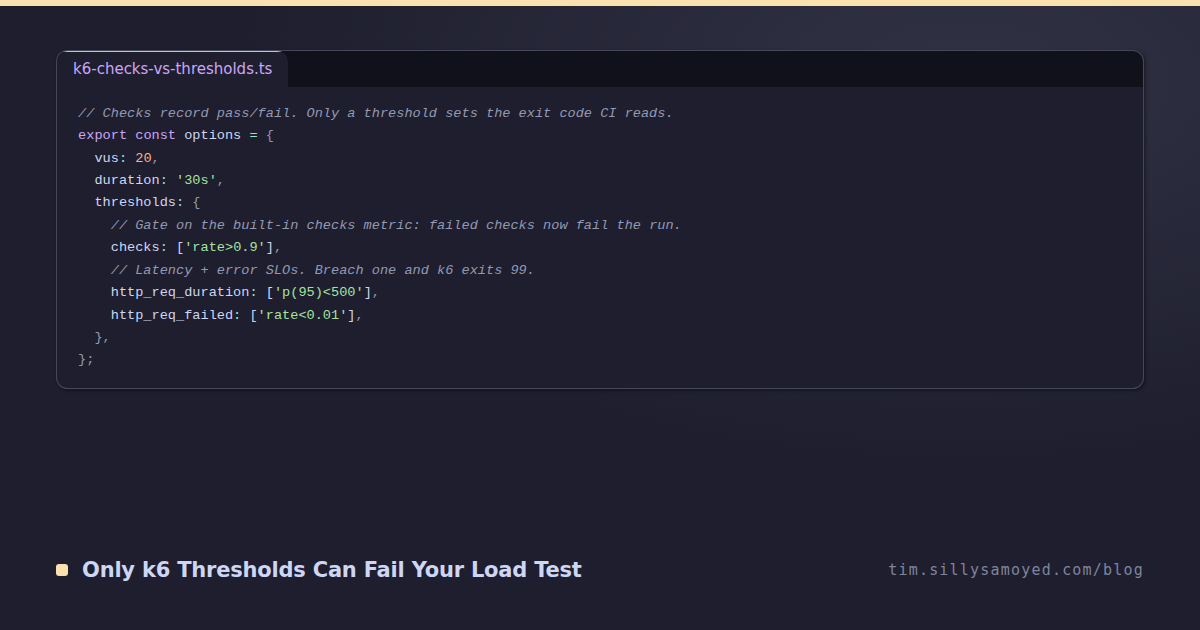
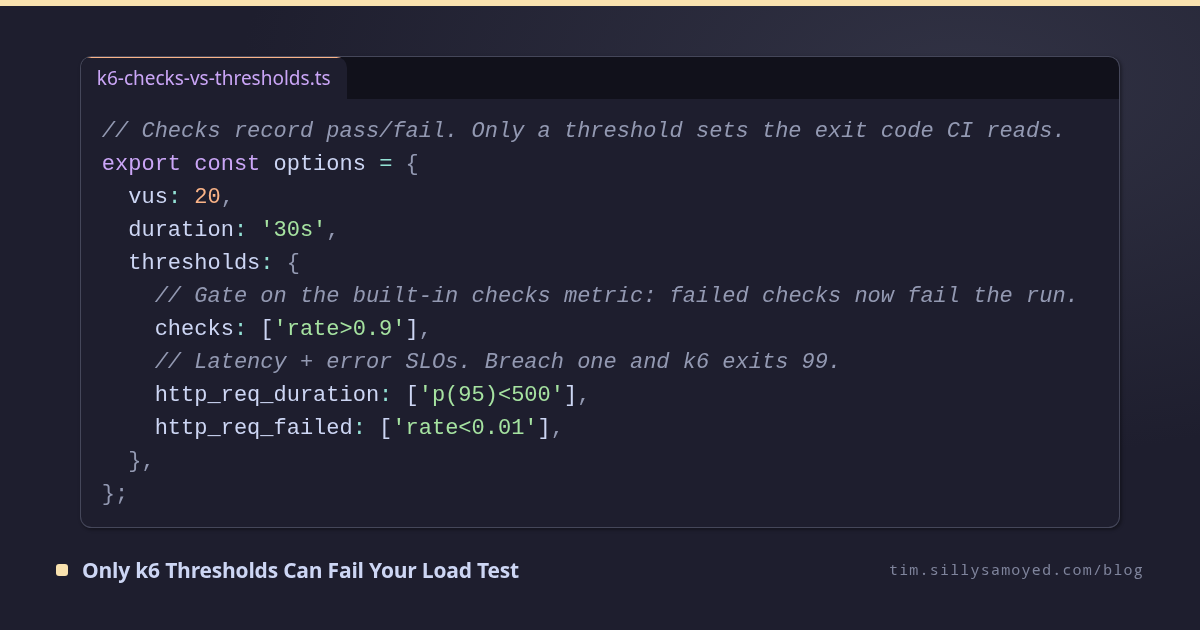
fix(ci): render OG image at PR time, slim publish to dispatch-only (#200)
* fix(ci): render OG image at PR time, slim publish to dispatch-only

Post-merge OG render in publish-linkedin.yml pushed public/og/SLUG.png
straight to main, racing the version-bump commit and failing the whole
publish (no image, no LinkedIn dispatch). Move the render to a PR-time
workflow (render-og.yml) that commits the PNG to the claude/ branch with
the built-in Actions token, so it rides the rebase-merge into main. Slim
publish-linkedin.yml to poll + dispatch only — it writes nothing to main,
so the race class is gone. render-og triggers on posts and og-snippets,
so an OG-snippet edit on an existing post re-renders too.

Also fix the OG card layout: the code frame stretched to 630px (flex
1 1 auto) leaving a big gap to the footer, and sat full-width with short
lines. Hug the code width, centre it vertically, and bump the Expressive
Code font token so the card fills evenly.

Closes #199

* chore(ci): bump actions/checkout and setup-node to v7

Move every actions/checkout and actions/setup-node reference from @user to
@user across the remaining workflows (publish-linkedin.yml and render-og.yml
already ship on v7). pnpm/action-setup stays at v4.

---------

diff --git a/CLAUDE.md b/CLAUDE.md
@@ -235,7 +235,8 @@ screenshotted by `scripts/og/render.mjs`.
 
 Missing snippet → route falls back to the post's first body fence via
 `pickHeroFence()` (`src/lib/ogSnippet.ts`), so hand-written posts still get an image.
-`publish-linkedin.yml` runs the render on merge and commits `public/og/SLUG.png`;
+`render-og.yml` runs the render at PR time and commits `public/og/SLUG.png` to the
+PR branch, so the PNG is reviewable in the diff and merges atomically with the post;
 `version-bump.yml` ignores `public/og/**` so those commits never bump the version.
 
 ## Component Architecture
@@ -383,12 +384,13 @@ one row per post (`Date | Title | Topic angle | Archetype | Hashtags`); the skil
 reads it to avoid repeating a recent angle and to exclude the last three archetypes
 from this run's rotation. It is hand-tended by the skill — append, don't rewrite.
 
-On merge, `publish-linkedin.yml` reads `linkedinPost`, renders `public/og/SLUG.png`
-(building the site, running `pnpm og:render --slug SLUG`, and committing the PNG to
-`main`), then dispatches to `linkedin-post-generator`, which posts the copy to
-LinkedIn and comments the blog link on the post (LinkedIn demotes posts with external
-links in the body, so the copy carries no URLs — it ends with "Link in the first
-comment.").
+At PR time, `render-og.yml` builds the site, runs `pnpm og:render`, and commits
+`public/og/SLUG.png` to the PR branch — so the PNG rides the rebase-merge into
+`main` atomically with the post. On merge, `publish-linkedin.yml` reads
+`linkedinPost`, polls the blog URL and image URL until both are live on Cloudflare,
+then dispatches to `linkedin-post-generator`, which posts the copy to LinkedIn and
+comments the blog link on the post (LinkedIn demotes posts with external links in
+the body, so the copy carries no URLs — it ends with "Link in the first comment.").
 
 ## Playwright Screenshots
 
@@ -489,15 +491,16 @@ default.
 
 GitHub Actions workflows live in `.github/workflows/`.
 
-| Workflow                    | Trigger                                                                                                  | What                                                                                                                                                                                                                                                                                                                                                                                                                                                                                                                                                                                                    |
-| --------------------------- | -------------------------------------------------------------------------------------------------------- | ------------------------------------------------------------------------------------------------------------------------------------------------------------------------------------------------------------------------------------------------------------------------------------------------------------------------------------------------------------------------------------------------------------------------------------------------------------------------------------------------------------------------------------------------------------------------------------------------------- |
-| `ci.yml`                    | `pull_request` → `main`                                                                                  | `./scripts/ci/check-claude-md.sh` → `pnpm lint` → `pnpm test:coverage` (V8 coverage gate, thresholds in `vitest.config.ts`) → `pnpm typecheck` → `pnpm build`                                                                                                                                                                                                                                                                                                                                                                                                                                           |
-| `playwright.yml`            | `pull_request` → `main` / manual                                                                         | Waits for the Cloudflare Pages preview deploy via `scripts/ci/wait-for-cf-preview.sh`, then runs Playwright against the preview URL. `workflow_dispatch` takes a `base_url` input instead.                                                                                                                                                                                                                                                                                                                                                                                                              |
-| `refresh-ci-snapshot.yml`   | nightly cron (`0 6 * * *`) / manual                                                                      | Runs `pnpm ci:refresh` to regenerate `src/data/ci-snapshot.json` from the live Actions API (CI strip signals + real per-step `gates` durations for the `/testing` CI-gate cards), then commits it straight to `main` (via `VERSION_BUMP_TOKEN`, like `refresh-test-stats.yml`) if it changed — no PR. `version-bump.yml` paths-ignores the file so the commit never bumps the version. Keeps the footer + `/testing` CI strip and gate timings from going stale.                                                                                                                                        |
-| `refresh-project-stats.yml` | nightly cron (`15 6 * * *`) / manual                                                                     | Runs `pnpm projects:refresh` to regenerate `src/data/project-stats.json` (stars/forks/updatedAt per repo) from the live GitHub repos API, then commits it straight to `main` (via `VERSION_BUMP_TOKEN`, like `refresh-test-stats.yml`) if it changed — no PR. `version-bump.yml` ignores the file so the refresh never bumps the version.                                                                                                                                                                                                                                                               |
-| `refresh-test-stats.yml`    | `push` → `main` (`paths: tests/**`, `**/*.test.ts`, `playwright.config.ts`) / manual                     | Runs `pnpm stats:refresh` to regenerate `src/lib/testStats.ts` (the `/testing` unit/E2E counts) whenever specs change, then commits it back to `main` via `VERSION_BUMP_TOKEN` if it changed. The commit touches only `testStats.ts`, which matches neither this workflow's `paths` filter (no self-trigger) nor version-bump's `paths-ignore` (no bump no-op).                                                                                                                                                                                                                                         |
-| `publish-linkedin.yml`      | `push` → `main` (`paths: src/content/posts/**`) / manual (`workflow_dispatch` with a `slug` input) | Blog-first publish. When a new blog post lands on `main`: builds the site, runs `pnpm og:render --slug SLUG` (Playwright screenshots `/blog/SLUG/og`), commits `public/og/SLUG.png` to `main` via `VERSION_BUMP_TOKEN` (rebase-retries on a concurrent push to `main`; husky hooks skipped on the bot commit/push), polls the blog URL (200) and the image URL (200 **and** `image/*` content-type, so the pre-deploy HTML fallback can't false-pass), then `repository_dispatch`es a `linkedin-publish` event (`client_payload: { linkedin_text, blog_url, slug, image_url }`) to `linkedin-post-generator`. Posts without `linkedinPost` (hand-written) are skipped. The `workflow_dispatch` `slug` input is the manual recovery lever — re-drives render → commit → poll → dispatch for one post when the push run failed (e.g. lost a push race). One-way link, no write-back. Uses `secrets.LPG_DISPATCH_TOKEN` + `secrets.VERSION_BUMP_TOKEN`. |
-| `version-bump.yml`          | `push` → `main` (`paths-ignore: ci-snapshot.json`, `project-stats.json`, `testStats.ts`, `public/og/**`) | Reads the merged commits via Conventional Commits — `feat`→minor, `fix`/`perf`→patch, `feat!`/`BREAKING CHANGE`→major, anything else→no bump — then `npm version <level> --no-git-tag-version` and commits the bump back to `main`. The bump commit deliberately omits `[skip ci]` (Cloudflare Pages honors it, which would stop the footer version from ever deploying); its `chore(release)` subject re-runs this workflow once as a no-op rather than looping. The `paths-ignore` keeps the generated-file refreshes (ci-snapshot, project-stats, test stats, OG images) from triggering a bump.     |
+| Workflow                    | Trigger                                                                                                  | What                                                                                                                                                                                                                                                                                                                                                                                                                                                                                                                                                                                                                                                                                                                                                                                        |
+| --------------------------- | -------------------------------------------------------------------------------------------------------- | ------------------------------------------------------------------------------------------------------------------------------------------------------------------------------------------------------------------------------------------------------------------------------------------------------------------------------------------------------------------------------------------------------------------------------------------------------------------------------------------------------------------------------------------------------------------------------------------------------------------------------------------------------------------------------------------------------------------------------------------------------------------------------------------- |
+| `ci.yml`                    | `pull_request` → `main`                                                                                  | `./scripts/ci/check-claude-md.sh` → `pnpm lint` → `pnpm test:coverage` (V8 coverage gate, thresholds in `vitest.config.ts`) → `pnpm typecheck` → `pnpm build`                                                                                                                                                                                                                                                                                                                                                                                                                                                                                                                                                                                                                               |
+| `playwright.yml`            | `pull_request` → `main` / manual                                                                         | Waits for the Cloudflare Pages preview deploy via `scripts/ci/wait-for-cf-preview.sh`, then runs Playwright against the preview URL. `workflow_dispatch` takes a `base_url` input instead.                                                                                                                                                                                                                                                                                                                                                                                                                                                                                                                                                                                                  |
+| `refresh-ci-snapshot.yml`   | nightly cron (`0 6 * * *`) / manual                                                                      | Runs `pnpm ci:refresh` to regenerate `src/data/ci-snapshot.json` from the live Actions API (CI strip signals + real per-step `gates` durations for the `/testing` CI-gate cards), then commits it straight to `main` (via `VERSION_BUMP_TOKEN`, like `refresh-test-stats.yml`) if it changed — no PR. `version-bump.yml` paths-ignores the file so the commit never bumps the version. Keeps the footer + `/testing` CI strip and gate timings from going stale.                                                                                                                                                                                                                                                                                                                            |
+| `refresh-project-stats.yml` | nightly cron (`15 6 * * *`) / manual                                                                     | Runs `pnpm projects:refresh` to regenerate `src/data/project-stats.json` (stars/forks/updatedAt per repo) from the live GitHub repos API, then commits it straight to `main` (via `VERSION_BUMP_TOKEN`, like `refresh-test-stats.yml`) if it changed — no PR. `version-bump.yml` ignores the file so the refresh never bumps the version.                                                                                                                                                                                                                                                                                                                                                                                                                                                   |
+| `refresh-test-stats.yml`    | `push` → `main` (`paths: tests/**`, `**/*.test.ts`, `playwright.config.ts`) / manual                     | Runs `pnpm stats:refresh` to regenerate `src/lib/testStats.ts` (the `/testing` unit/E2E counts) whenever specs change, then commits it back to `main` via `VERSION_BUMP_TOKEN` if it changed. The commit touches only `testStats.ts`, which matches neither this workflow's `paths` filter (no self-trigger) nor version-bump's `paths-ignore` (no bump no-op).                                                                                                                                                                                                                                                                                                                                                                                                                             |
+| `render-og.yml`             | `pull_request` → `main` (`paths: src/content/posts/**`, `src/og-snippets/**`)                            | Renders OG snippet images at PR time. Builds the site, runs `node scripts/og/render.mjs` against `pnpm preview`, and commits any changed `public/og/SLUG.png` files to the PR branch via the built-in `GITHUB_TOKEN` (the `claude/` PR branch is unprotected). Skips fork PRs. Rendering all posts and committing only diffs means new posts, edited posts, and og-snippet-only changes are all covered. The PNG rides the rebase-merge into `main` atomically with the post — it is reviewable in the PR diff.                                                                                                                                                                                                                                                                             |
+| `publish-linkedin.yml`      | `push` → `main` (`paths: src/content/posts/**`) / manual (`workflow_dispatch` with a `slug` input)       | Poll-and-dispatch only. When a new post lands on `main`: detects the newly added post (`--diff-filter=A`), reads `linkedinPost` (skips posts without it), polls the blog URL (200) and image URL (200 **and** `image/*` content-type, so the pre-deploy HTML fallback can't false-pass) until both are live on Cloudflare, then `repository_dispatch`es a `linkedin-publish` event (`client_payload: { linkedin_text, blog_url, slug, image_url }`) to `linkedin-post-generator`. Commits nothing to `main` — the OG PNG was already committed to the branch by `render-og.yml` and rode the rebase-merge. The `workflow_dispatch` `slug` input is the manual recovery lever — re-drives poll → dispatch for one post. One-way link, no write-back. Uses `secrets.LPG_DISPATCH_TOKEN` only. |
+| `version-bump.yml`          | `push` → `main` (`paths-ignore: ci-snapshot.json`, `project-stats.json`, `testStats.ts`, `public/og/**`) | Reads the merged commits via Conventional Commits — `feat`→minor, `fix`/`perf`→patch, `feat!`/`BREAKING CHANGE`→major, anything else→no bump — then `npm version <level> --no-git-tag-version` and commits the bump back to `main`. The bump commit deliberately omits `[skip ci]` (Cloudflare Pages honors it, which would stop the footer version from ever deploying); its `chore(release)` subject re-runs this workflow once as a no-op rather than looping. The `paths-ignore` keeps the generated-file refreshes (ci-snapshot, project-stats, test stats, OG images) from triggering a bump.                                                                                                                                                                                         |
 
 Playwright projects (see `playwright.config.ts`) route specs by `testMatch` so each spec runs only where it's meaningful:
 

diff --git a/README.md b/README.md
@@ -94,15 +94,16 @@ Push to `main` and Cloudflare Pages builds + publishes to https://tim.sillysamoy
 
 GitHub Actions workflows:
 
-| Workflow                    | Trigger                    | Steps                                                                                                                                                                                                                                     |
-| --------------------------- | -------------------------- | ----------------------------------------------------------------------------------------------------------------------------------------------------------------------------------------------------------------------------------------- |
-| `ci.yml`                    | PR → `main`                | `check-claude-md.sh` → `pnpm lint` → `pnpm test:coverage` (coverage gate) → `pnpm typecheck` → `pnpm build`                                                                                                                               |
-| `playwright.yml`            | PR → `main`                | Wait for Cloudflare preview → run Playwright against the preview URL (all projects)                                                                                                                                                       |
-| `refresh-ci-snapshot.yml`   | nightly cron               | Regenerate `src/data/ci-snapshot.json` from the live Actions API, then commit straight to `main` (no PR)                                                                                                                                  |
-| `refresh-project-stats.yml` | nightly cron               | Regenerate `src/data/project-stats.json` (repo stars/forks/updated) from the live GitHub API, commit to `main`                                                                                                                            |
-| `refresh-test-stats.yml`    | push → `main` (test files) | Regenerate `src/lib/testStats.ts` (the `/testing` counts) when specs change, commit back to `main`                                                                                                                                        |
-| `publish-linkedin.yml`      | push → `main` (post files) | Blog-first: when a new post lands, build site, render `public/og/SLUG.png` via `pnpm og:render`, commit the PNG, poll blog + image URLs, then dispatch to `linkedin-post-generator` with `image_url`. Skips posts without `linkedinPost`. |
-| `version-bump.yml`          | push → `main`              | Bump `package.json` version from Conventional Commits (feat→minor, fix→patch, `!`/BREAKING→major). Ignores `public/og/**` and other generated files.                                                                                      |
+| Workflow                    | Trigger                          | Steps                                                                                                                                                                                                                                                           |
+| --------------------------- | -------------------------------- | --------------------------------------------------------------------------------------------------------------------------------------------------------------------------------------------------------------------------------------------------------------- |
+| `ci.yml`                    | PR → `main`                      | `check-claude-md.sh` → `pnpm lint` → `pnpm test:coverage` (coverage gate) → `pnpm typecheck` → `pnpm build`                                                                                                                                                     |
+| `playwright.yml`            | PR → `main`                      | Wait for Cloudflare preview → run Playwright against the preview URL (all projects)                                                                                                                                                                             |
+| `refresh-ci-snapshot.yml`   | nightly cron                     | Regenerate `src/data/ci-snapshot.json` from the live Actions API, then commit straight to `main` (no PR)                                                                                                                                                        |
+| `refresh-project-stats.yml` | nightly cron                     | Regenerate `src/data/project-stats.json` (repo stars/forks/updated) from the live GitHub API, commit to `main`                                                                                                                                                  |
+| `refresh-test-stats.yml`    | push → `main` (test files)       | Regenerate `src/lib/testStats.ts` (the `/testing` counts) when specs change, commit back to `main`                                                                                                                                                              |
+| `render-og.yml`             | PR → `main` (post/snippet files) | Build site, render all OG images via `pnpm og:render`, commit changed `public/og/SLUG.png` files to the PR branch. Skips fork PRs. The PNG rides the rebase-merge atomically with the post.                                                                     |
+| `publish-linkedin.yml`      | push → `main` (post files)       | Poll-and-dispatch only: when a new post lands, detect it, read `linkedinPost` (skip if absent), poll blog + image URLs until live on Cloudflare, then dispatch to `linkedin-post-generator`. Commits nothing — OG render happens at PR time by `render-og.yml`. |
+| `version-bump.yml`          | push → `main`                    | Bump `package.json` version from Conventional Commits (feat→minor, fix→patch, `!`/BREAKING→major). Ignores `public/og/**` and other generated files.                                                                                                            |
 
 ## Contributing
 